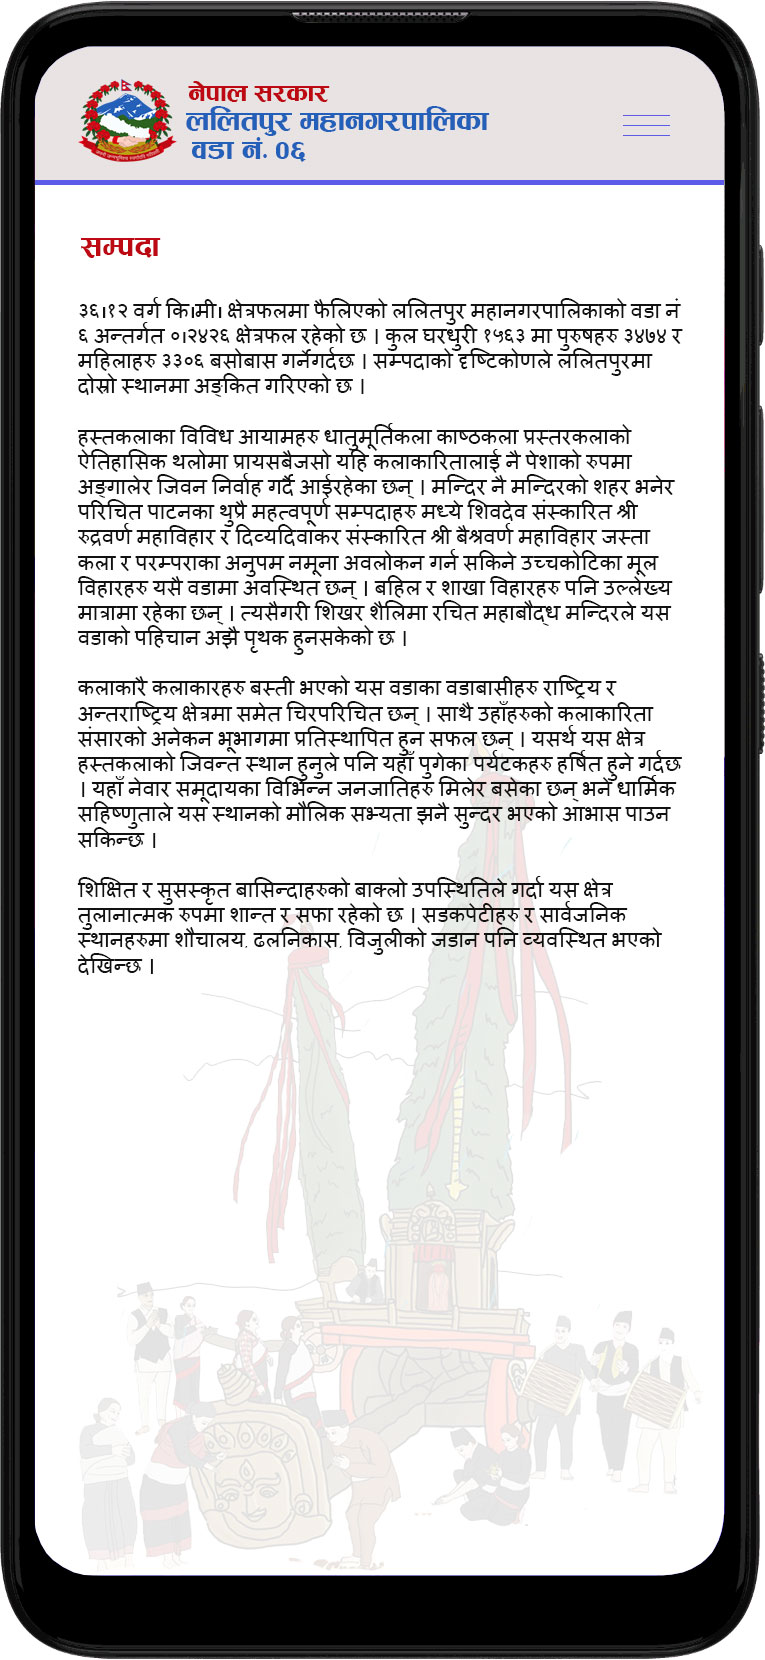
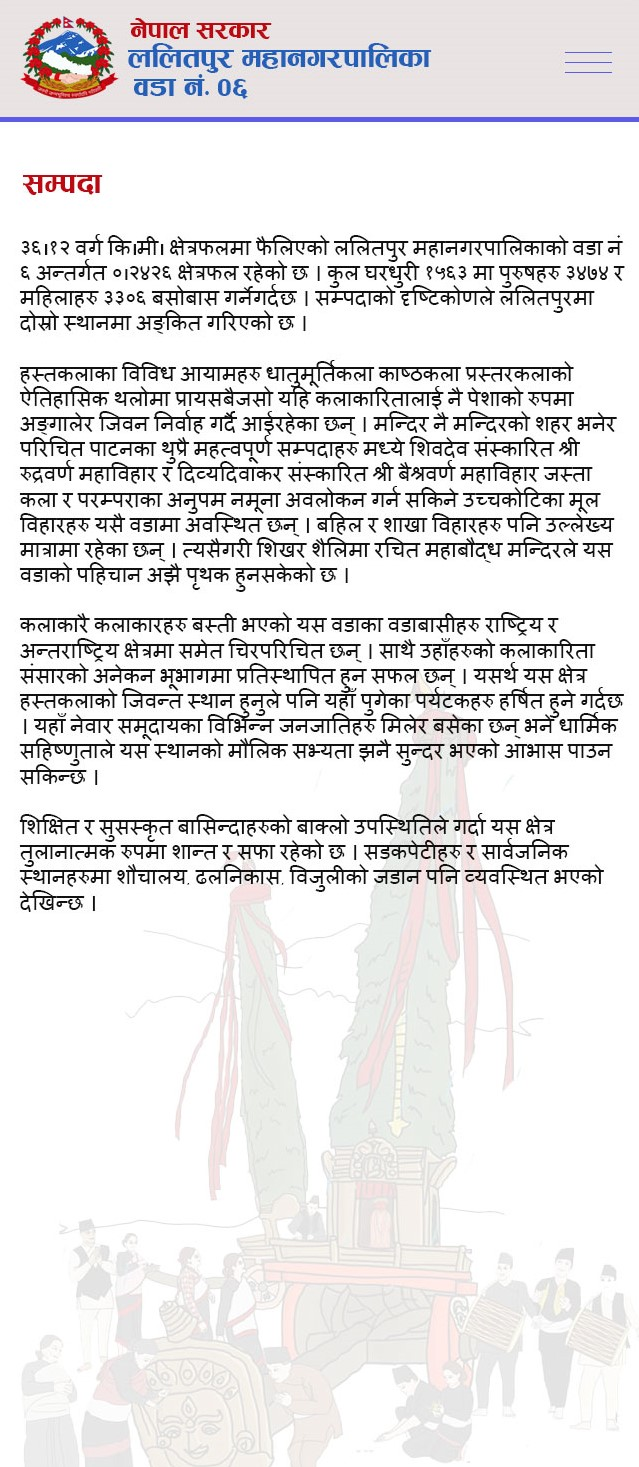
google map

diff --git a/lib/screen/sampada.dart b/lib/screen/sampada.dart
@@ -6,64 +6,15 @@ class Sampada extends StatelessWidget {
   @override
   Widget build(BuildContext context) {
     return Scaffold(
-        appBar: AppBar(),
-        body: Column(
-          children: [
-            Row(
-              mainAxisAlignment: MainAxisAlignment.spaceAround,
-              children: const [
-                HomeMenuCard(
-                  title: "log",
-                  imageName: "news.png",
-                  index: 0,
-                ),
-                HomeMenuCard(
-                  title: "log2",
-                  imageName: "profile.png",
-                  index: 1,
-                ),
-              ],
-            ),
-          ],
-        ));
-  }
-}
-
-class HomeMenuCard extends StatelessWidget {
-  final String title;
-  final String imageName;
-  final int index;
-  const HomeMenuCard(
-      {Key? key, required this.title, required this.imageName, this.index = 0})
-      : super(key: key);
-
-  @override
-  Widget build(BuildContext context) {
-    return GestureDetector(
-      onTap: () {
-        if (index == 0) {
-          test();
-        } else {
-          debugPrint("not index zero");
-        }
-      },
-      child: Container(
-        padding: const EdgeInsets.all(20),
-        color: Colors.orange,
-        child: Column(
-          children: [
-            Image.asset(
-              'assets/images/$imageName',
-              height: 100,
-            ),
-            Text(title)
-          ],
+      appBar: AppBar(),
+      body: Container(
+        decoration: const BoxDecoration(
+          image: DecorationImage(
+            image: AssetImage('assets/images/03.jpg'),
+            fit: BoxFit.cover,
+          ),
         ),
       ),
     );
-  }
-
-  void test() {
-    debugPrint("hello");
   }
 }

diff --git a/lib/screen/contactus.dart b/lib/screen/contactus.dart
@@ -3,6 +3,8 @@ import 'dart:convert';
 import 'package:flutter/material.dart';
 import 'package:http/http.dart' as http;
 
+import 'map.dart';
+
 class Contactus extends StatefulWidget {
   const Contactus({super.key});
 
@@ -38,6 +40,10 @@ Future sentEmail() async {
     }),
   );
   return response.statusCode;
+
+  //  cif (response.statusCode == 200) {
+  //   debugPrint("i am responding");
+  // }
 }
 
 class _ContactusState extends State<Contactus> {
@@ -102,7 +108,8 @@ class _ContactusState extends State<Contactus> {
                 child: const Text(
                   "send",
                   style: TextStyle(fontSize: 20),
-                ))
+                )),
+            const SizedBox(height: 30, child: gMape())
           ],
         )),
       ),

diff --git a/lib/screen/contact.dart b/lib/screen/contact.dart
@@ -1,4 +1,5 @@
 import 'package:event/screen/contactus.dart';
+import 'package:event/screen/map.dart';
 import 'package:flutter/material.dart';
 
 class Contact extends StatelessWidget {
@@ -7,7 +8,16 @@ class Contact extends StatelessWidget {
   @override
   Widget build(BuildContext context) {
     return Scaffold(
-      appBar: AppBar(),
+      appBar: AppBar(
+          title: Column(mainAxisAlignment: MainAxisAlignment.center, children: [
+        Center(
+          child: Image.asset(
+            'assets/images/appbanner.jpg',
+            height: 100,
+            fit: BoxFit.fitWidth,
+          ),
+        ),
+      ])),
       body: Container(
         decoration: const BoxDecoration(
           image: DecorationImage(

diff --git a/lib/screen/map.dart b/lib/screen/map.dart
@@ -1,0 +1,24 @@
+import 'package:flutter/material.dart';
+
+// ignore: camel_case_types
+class gMape extends StatefulWidget {
+  const gMape({super.key});
+
+  @override
+  State<gMape> createState() => _gMapeState();
+}
+
+// ignore: camel_case_types
+class _gMapeState extends State<gMape> {
+  @override
+  Widget build(BuildContext context) {
+    return Container(
+      decoration: const BoxDecoration(
+        image: DecorationImage(
+          image: AssetImage('assets/images/blueg.png'),
+          fit: BoxFit.cover,
+        ),
+      ),
+    );
+  }
+}
